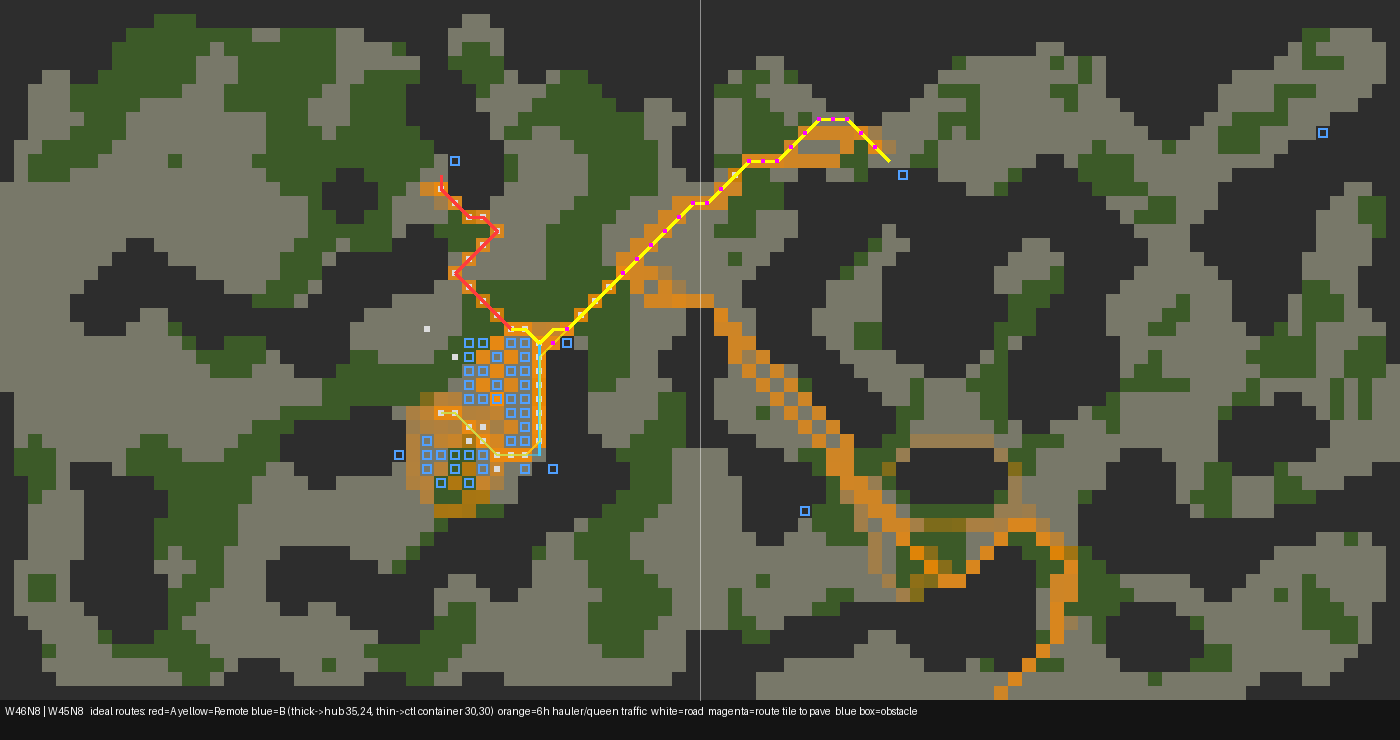
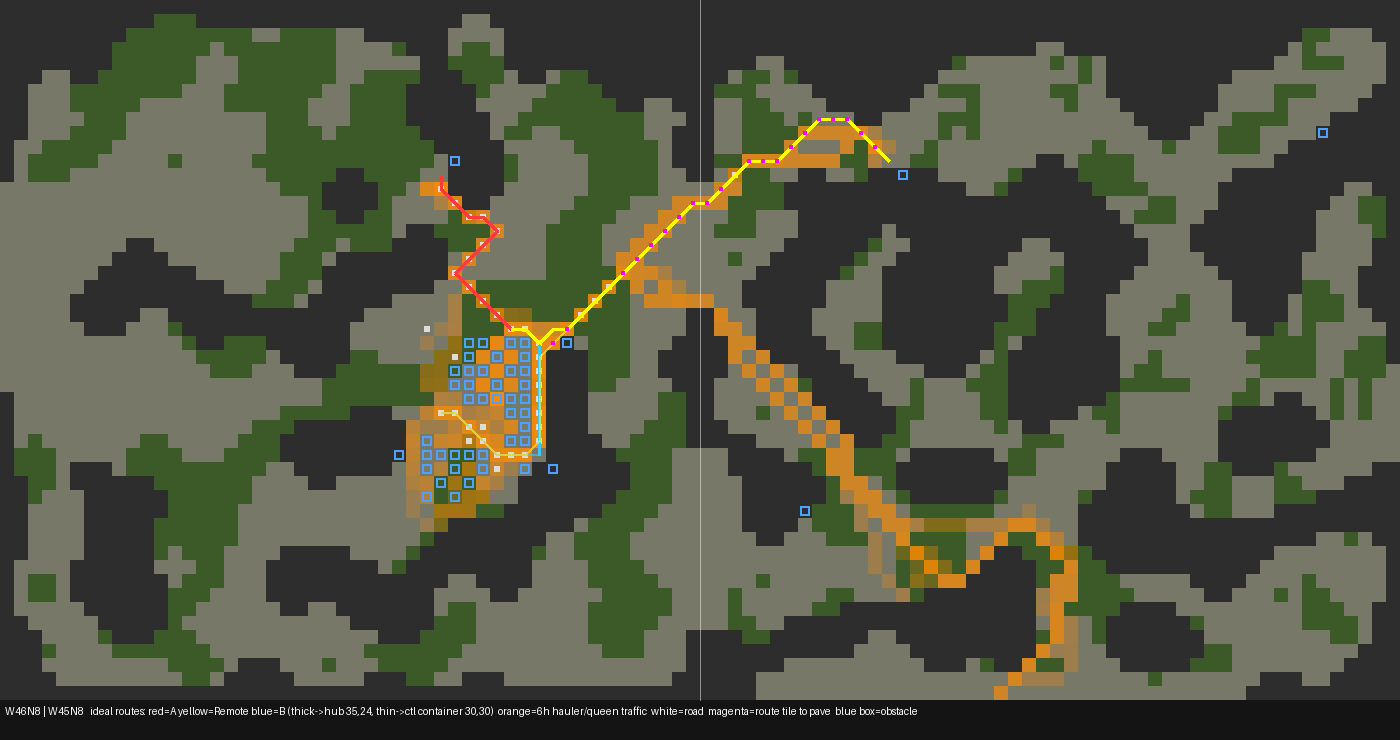
roads build hold: 0 upgraders while walls.phase 'roads' (safety upgrader if ttd<20000), no ctl feed, 3rd builder at storage>=3000, builders may use ctl leftovers; tests/build_hold.js

diff --git a/tests/build_hold.js b/tests/build_hold.js
@@ -1,0 +1,40 @@
+// Build hold (Misaki 2026-10-17 21:00 "先停止升级，全力基建"): walls.noUpgrade + spawn targets. node tests/build_hold.js
+const path = require('path'), assert = require('assert');
+const src = p => path.join(__dirname, '..', 'src', p);
+Object.assign(global, { WORK: 'work', CARRY: 'carry', MOVE: 'move', RESOURCE_ENERGY: 'energy', STRUCTURE_LINK: 'link', STRUCTURE_CONTAINER: 'container', STRUCTURE_SPAWN: 'spawn', STRUCTURE_EXTENSION: 'extension', STRUCTURE_TOWER: 'tower', FIND_HOSTILE_CREEPS: 1, _: { filter: () => [] }, Memory: {} });
+const stub = (p, exp) => { require.cache[require.resolve(src(p))] = { id: p, filename: p, loaded: true, exports: exp }; };
+let roadsDone = false;
+stub('managers/home.js', { on: () => false, alert: () => false, active: () => false });
+stub('managers/roads.js', { done: () => roadsDone, phase: () => 'core', repairTarget: () => null });
+stub('managers/threat.js', { reserve: () => 1300, holding: () => false });
+const Wl = require(src('managers/walls.js'));
+const room = (o = {}) => ({ name: 'W46N8', memory: {}, find: () => [], energyCapacityAvailable: 2000,
+  controller: { my: true, level: o.level || 6, ticksToDowngrade: o.ttd == null ? 66000 : o.ttd }, storage: { store: { energy: o.storage || 1000 } } });
+const cases = [
+  ['roads phase, timer 66k -> hold', () => assert.strictEqual(Wl.noUpgrade(room()), true)],
+  ['timer < 20000 -> no hold (safety upgrader)', () => assert.strictEqual(Wl.noUpgrade(room({ ttd: 19999 })), false)],
+  ['RCL5 / RCL8 -> no hold', () => { assert.strictEqual(Wl.noUpgrade(room({ level: 5 })), false); assert.strictEqual(Wl.noUpgrade(room({ level: 8 })), false); }],
+  ['Memory.roads.upgrade override -> no hold', () => { Memory.roads = { upgrade: 1 }; try { assert.strictEqual(Wl.noUpgrade(room()), false); } finally { Memory.roads = {}; } }],
+  ['roads done -> bank phase, no hold', () => { roadsDone = true; try { assert.strictEqual(Wl.phase(room()), 'bank'); assert.strictEqual(Wl.noUpgrade(room()), false); } finally { roadsDone = false; } }],
+];
+// spawn targets with a stubbed walls module
+let hold = true, ph = 'roads';
+stub('managers/walls.js', { noUpgrade: () => hold, phase: () => ph, wantBuilder: () => false, reserved: () => 0 });
+const P = { pos: { upgraders: [[29, 30], [30, 31], [31, 30]], controllerContainer: [30, 30], fillerContainerA: [35, 24], fillers: [], miners: [] }, raw: { stamps: {} }, any: {} };
+stub('utils/plan.js', { get: () => P, key: (x, y) => x * 50 + y });
+stub('roles/builder.js', { remoteRoadSite: () => null });
+stub('utils/move.js', { to: () => true });
+stub('utils/roomcache.js', { all: () => [], at: () => null, get: () => ({ at: [] }), sites: () => [] });
+stub('utils/trace.js', { why: () => {} });
+const S = require(src('managers/spawn.js'));
+const T = (o) => { hold = o.hold; ph = o.ph || 'roads'; return S.targets(room({ storage: o.storage }), {}, 0, 900, o.sites); };
+cases.push(
+  ['hold: 0 upgraders', () => assert.strictEqual(T({ hold: true, sites: 5, storage: 1000 }).upgrader, 0)],
+  ['no hold in roads (timer low): 1 upgrader', () => assert.strictEqual(T({ hold: false, sites: 5, storage: 1000 }).upgrader, 1)],
+  ['bank phase after roads: max 1 upgrader even with surplus', () => assert.strictEqual(T({ hold: false, ph: 'bank', sites: 0, storage: 15000 }).upgrader, 1)],
+  ['hold + storage 3000 + >=3 sites: 3 builders', () => assert.strictEqual(T({ hold: true, sites: 5, storage: 3000 }).builder, 3)],
+  ['hold + storage 2999: 2 builders', () => assert.strictEqual(T({ hold: true, sites: 5, storage: 2999 }).builder, 2)],
+  ['no hold: 2 builders max at home sites', () => assert.strictEqual(T({ hold: false, sites: 5, storage: 9000 }).builder, 2)],
+);
+let fail = 0; for (const [n, f] of cases) { try { f(); console.log('ok  ', n); } catch (e) { fail++; console.log('FAIL', n, e.message); } }
+console.log(`build hold: ${cases.length - fail}/${cases.length}`); process.exit(fail ? 1 : 0);

diff --git a/src/managers/spawn.js b/src/managers/spawn.js
@@ -62,6 +62,9 @@ function targets(room, count, backlog, ctlEnergy, sites) {
   T.upgrader = rcl >= 8 ? 1 : Math.min(P.pos.upgraders.length, (sites ? 1 : 2) + (allowExtra ? extra : 0));
   // RCL6+ wall banking (managers/walls.js): one upgrader until storage reaches the wall start (20k), then the latch releases it.
   if (rcl >= 6 && rcl < 8 && ['bank', 'roads'].includes(require('./walls').phase(room))) T.upgrader = Math.min(T.upgrader, 1);
+  // Build hold (walls.noUpgrade): 0 upgraders during the road plan; falls back to the 1 minimal (700e) upgrader above
+  // when ticksToDowngrade < walls.UP_SAFE. After roads: 'bank' keeps 1 upgrader until storage 20k (storage accumulates).
+  if (require('./walls').noUpgrade(room)) T.upgrader = 0;
   // RCL4 extension push: 2 builders need ~40 e/t but net income ~22 -> spawn/ctl starve, builders no_task ~28%,
   // haulers wait on empty pickups (patrol 10-13 18:40). One fed builder finishes sites faster than two hungry ones.
   // Second builder only after cap>=1300 (20 ext, CLAIM2-ready) when the room can afford the extra demand.
@@ -74,6 +77,8 @@ function targets(room, count, backlog, ctlEnergy, sites) {
   if (!T.builder && st && require('../roles/builder').remoteRoadSite()) T.builder = 1;
   // RCL6 road plan (docs/ROADS.md): remote road phases get a 2nd builder once storage holds a cushion; route roads < 40% get one.
   if (st && rcl >= 6) { const RD = require('./roads');
+    // build hold: the upgrader's ~6/t goes to builders; a 3rd builder once storage holds a cushion and >=3 sites are open
+    if (T.builder === 2 && sites >= 3 && require('./walls').noUpgrade(room) && room.storage.store[RESOURCE_ENERGY] >= 3000) T.builder = 3;
     if (T.builder === 1 && !sites && /^W45N/.test(RD.phase()) && room.storage.store[RESOURCE_ENERGY] >= 5000 && room.energyCapacityAvailable >= 1300) T.builder = 2;
     if (!T.builder && RD.repairTarget(0.4)) T.builder = 1; }
   return T;

diff --git a/src/roles/builder.js b/src/roles/builder.js
@@ -117,7 +117,10 @@ module.exports = { remoteRoadSite, run(c) {
       // Prefer hub stores (storage / filler A); source containers next. NEVER the controller container —
       // haulers feed ctl for upgraders; builders sipping it kept ctlEma ~150 and pinned us to 1x8W (patrol 10-13 18:40).
       const [fx, fy] = Ph.pos.fillerContainerA;
-      const all = [home.storage, rc.at(home, fx, fy, STRUCTURE_CONTAINER)].concat(require('./hauler').pickups(home))
+      // build hold (walls.noUpgrade): nobody upgrades, so the ctl container / ctl link leftovers are builder energy
+      const noUp = require('../managers/walls').noUpgrade(home), Pc = Ph.pos.controllerContainer, Pl = Ph.pos.controllerLink;
+      const ctlSrc = noUp ? [rc.at(home, Pc[0], Pc[1], STRUCTURE_CONTAINER), Pl && rc.at(home, Pl[0], Pl[1], STRUCTURE_LINK)] : [];
+      const all = [home.storage, rc.at(home, fx, fy, STRUCTURE_CONTAINER)].concat(ctlSrc, require('./hauler').pickups(home))
         .filter(s => s && s.store[RESOURCE_ENERGY] >= 50 + (s === home.storage ? require('../managers/threat').reserve(home.name) : 0)); // 50: was 100, left builders no_task while sites existed
       const tw = c.memory.t && Game.getObjectById(c.memory.t);
       let cands = all.filter(s => c.pos.getRangeTo(s) <= 12);

diff --git a/src/managers/links.js b/src/managers/links.js
@@ -15,10 +15,11 @@ function roles(room) {
 }
 const e = l => l.store[RESOURCE_ENERGY];
 function ctlLinkLow(room) { const { hub, ctl } = roles(room); return !!(hub && ctl && e(ctl) < CTL_LOW); }
-function target(R) { return (R.ctl && e(R.ctl) < CTL_LOW && R.ctl) || R.fillers.filter(l => e(l) < 400).sort((a, b) => e(a) - e(b))[0] || null; }
+function target(R, room) { const noUp = room && require('./walls').noUpgrade(room);
+  return (!noUp && R.ctl && e(R.ctl) < CTL_LOW && R.ctl) || R.fillers.filter(l => e(l) < 400).sort((a, b) => e(a) - e(b))[0] || null; }
 module.exports = { CTL_LOW, SEND, roles, ctlLinkLow, run(room) {
   if (Game.time % 3) return;
   const R = roles(room); if (R.links.length < 2) return;
-  for (const s of R.sources) { if (s.cooldown || e(s) < SEND) continue; const t = target(R) || R.hub; if (t && t !== s) s.transferEnergy(t); }
-  if (R.hub && !R.hub.cooldown && e(R.hub) >= SEND) { const t = target(R); if (t) R.hub.transferEnergy(t); }
+  for (const s of R.sources) { if (s.cooldown || e(s) < SEND) continue; const t = target(R, room) || R.hub; if (t && t !== s) s.transferEnergy(t); }
+  if (R.hub && !R.hub.cooldown && e(R.hub) >= SEND) { const t = target(R, room); if (t) R.hub.transferEnergy(t); }
 } };

diff --git a/src/roles/hauler.js b/src/roles/hauler.js
@@ -100,7 +100,8 @@ module.exports = { pickups, handoff, ctlLow, run(c) {
     if (queens && fc && fc.store[RESOURCE_ENERGY] < 400 && fc.store.getFreeCapacity(RESOURCE_ENERGY) >= 100) opts.push(fc); // queen's fixed refill
     const tw = rc.all(room, STRUCTURE_TOWER).filter(t => t.store[RESOURCE_ENERGY] < 600);
     if (!queens) opts.push(...tw);
-    const cc = rc.at(room, cx, cy, STRUCTURE_CONTAINER); if (cc && cc.store.getFreeCapacity(RESOURCE_ENERGY) >= 100) { if (cc.store[RESOURCE_ENERGY] < CTL_LOW) opts.unshift(cc); else opts.push(cc); }
+    const noUp = require('../managers/walls').noUpgrade(room) && room.storage; // build hold: feed storage, not the controller
+    const cc = !noUp && rc.at(room, cx, cy, STRUCTURE_CONTAINER); if (cc && cc.store.getFreeCapacity(RESOURCE_ENERGY) >= 100) { if (cc.store[RESOURCE_ENERGY] < CTL_LOW) opts.unshift(cc); else opts.push(cc); }
     const st = room.storage; if (st && st.store.getFreeCapacity() > 10000) opts.push(st);
     if (fc && fc.store.getFreeCapacity(RESOURCE_ENERGY) >= 200) opts.push(fc);
     // creeps that need energy: queen first (keeps the fill loop short), then builders. Pre-storage only: with storage both

diff --git a/src/roles/upgrader.js b/src/roles/upgrader.js
@@ -13,6 +13,13 @@ module.exports = { run(c) {
     const taken = new Set(_.filter(Game.creeps, x => x.memory.role === 'upgrader' && x.memory.spot).map(x => x.memory.spot.join()));
     c.memory.spot = P.pos.upgraders.find(s => !taken.has(s.join())) || P.pos.upgraders[P.pos.upgraders.length - 1];
   }
+  // build hold (walls.noUpgrade): spend what it carries, then recycle at the spawn (body energy back) instead of eating feed
+  if (require('../managers/walls').noUpgrade(room)) {
+    if (c.store[RESOURCE_ENERGY] > 0 && c.pos.inRangeTo(ctl, 3)) { c.upgradeController(ctl); return; }
+    const sp = _.filter(Game.spawns, s => s.pos.roomName === room.name)[0];
+    if (sp) { if (c.pos.isNearTo(sp)) sp.recycleCreep(c); else move.to(c, sp.pos.x, sp.pos.y, 1); }
+    return;
+  }
   const [x, y] = c.memory.spot;
   if (!move.to(c, x, y, 0)) {
     if (c.store[RESOURCE_ENERGY] > 0 && c.pos.inRangeTo(room.controller, 3)) c.upgradeController(room.controller);

diff --git a/src/managers/walls.js b/src/managers/walls.js
@@ -128,4 +128,14 @@ function placeSites(room, budget) {
   }
   return log;
 }
-module.exports = { START, NOVICE_END, phase, planned, STEPS, target, barriers, fund, spend, reserved, repairJob, wantBuilder, placeSites, lists };
+// Misaki 2026-10-17 21:00 "先停止升级，全力基建": while the road plan runs (phase 'roads') spawn NO upgrader and send no
+// energy to the controller. Safety: ticksToDowngrade < UP_SAFE -> 1 minimal upgrader again. Memory.roads.upgrade=1 overrides.
+const UP_SAFE = 20000;
+function noUpgrade(room) {
+  const c = room && room.controller;
+  if (!c || !c.my || c.level < 6 || c.level >= 8) return false;
+  if ((Memory.roads || {}).upgrade) return false;
+  if ((c.ticksToDowngrade || 0) < UP_SAFE) return false;
+  return phase(room) === 'roads';
+}
+module.exports = { UP_SAFE, noUpgrade, START, NOVICE_END, phase, planned, STEPS, target, barriers, fund, spend, reserved, repairJob, wantBuilder, placeSites, lists };

diff --git a/scripts/check.js b/scripts/check.js
@@ -28,6 +28,7 @@ execSync('node ' + path.join(__dirname, '..', 'tests', 'queen_standby.js'), { st
 execSync('node ' + path.join(__dirname, '..', 'tests', 'hauler_fill_sticky.js'), { stdio: 'pipe' });
 execSync('node ' + path.join(__dirname, '..', 'tests', 'salvage.js'), { stdio: 'pipe' });
 execSync('node ' + path.join(__dirname, '..', 'tests', 'roads_plan.js'), { stdio: 'pipe' });
+execSync('node ' + path.join(__dirname, '..', 'tests', 'build_hold.js'), { stdio: 'pipe' });
 execSync('node ' + path.join(__dirname, '..', 'tests', 'roads_transition.js'), { stdio: 'pipe' });
 execSync('node ' + path.join(__dirname, '..', 'tests', 'spawn_upgraders.js'), { stdio: 'pipe' });
 execSync('node ' + path.join(__dirname, '..', 'tests', 'walls_bank.js'), { stdio: 'pipe' });

diff --git a/tests/defender_energy_hold.js b/tests/defender_energy_hold.js
@@ -35,7 +35,7 @@ stub('managers/threat.js', {
 });
 stub('managers/home.js', { on: () => false, active: () => false, wantGuards: () => 0 });
 stub('managers/remote.js', { CFG: {}, paused: () => false, mem: () => ({}) });
-stub('managers/walls.js', { phase: () => 'off', reserved: () => 0 });
+stub('managers/walls.js', { phase: () => 'off', noUpgrade: () => false, reserved: () => 0 });
 stub('roles/hauler.js', { pickups: () => [], ctlLow: () => false, handoff: () => false });
 stub('roles/queen.js', { storageFloor: () => 1300, fillRoute: () => false });
 

diff --git a/src/roles/queen.js b/src/roles/queen.js
@@ -63,6 +63,7 @@ function storageFloor(room) {
 // walking to the controller container; links.js forwards hub -> controller link.
 function standby(c, room, P) {
   const H = require('./hauler'), Lk = require('../managers/links');
+  if (require('../managers/walls').noUpgrade(room)) return false; // build hold: no storage -> controller ferry
   const hub = Lk.ctlLinkLow(room) && Lk.roles(room).hub;
   const toHub = hub && hub.store.getFreeCapacity(RESOURCE_ENERGY) > 0;
   if (!toHub && !H.ctlLow(room, P)) return false;

diff --git a/docs/ROADS.md b/docs/ROADS.md
@@ -54,3 +54,14 @@ energy not starved (storage >= 1300) · errors 0 · CPU · walls.phase === 'road
 - Added tests/roads_transition.js (RCL5->6 sim: gate, init, core->home->W45N8->done, batch, no vision, paused, off, RCL drop).
 - Residual: home trunk tile 40,23 is under the RCL8 tower plan (road must be removed before that tower, RCL8 only).
 - Changed (patrol 10-17 19:40): in walls.phase 'roads' the held upgrader is spawned 6W1C1M (700e, ~6/t) instead of 12W (spawn.bodyEnergy buildMode), so builders get the spare ~6/t. Measured before: upgrade 13.9/t, build 5.9/t, storage -4.2/t. Full size returns automatically when roads are done.
+
+## Build hold — no upgrading during the road plan (Misaki 2026-10-17 21:00 "先停止升级，全力基建")
+- `walls.noUpgrade(room)`: true while RCL6–7, `walls.phase === 'roads'` (core → home → W45N8), `ticksToDowngrade >= 20000`
+  (`walls.UP_SAFE`) and `Memory.roads.upgrade` not set. Console override `Memory.roads.upgrade = 1` restores the 1×700e upgrader.
+- While true: spawn target upgrader 0; the live upgrader spends what it carries, then recycles at the spawn; haulers skip the
+  controller container (feed storage); queen does not ferry storage → controller/hub link; links do not send to the controller
+  link; builders may draw from the controller container / link leftovers.
+- Safety: timer < 20000 → hold off automatically → the 1 minimal (700e 6W1C1M) upgrader spawns until the timer is back up.
+- Builders: 2 normally (sites > 3); a 3rd while the hold is on, ≥ 3 sites open and storage ≥ 3000.
+- After `Memory.roads.phase === 'done'`: walls phase `bank` → 1 upgrader at normal size until storage reaches 20k
+  (walls start), so storage accumulates; then normal supply-follows-demand upgraders. Tests: `tests/build_hold.js`.

diff --git a/docs/RCL6.md b/docs/RCL6.md
@@ -48,3 +48,6 @@ the code does on the level-up night matters more than another model pass; the RC
 Walls are now LOW priority. After the core build the road plan runs first (docs/ROADS.md: home trunks → W45N8 → done; W45N7 road dropped 17:47);
 `walls.phase()` returns `'roads'` until `Memory.roads.phase === 'done'`, so the R4 banking rule ("one upgrader until storage 20k") and
 barrier sites start only after the roads. Emergency wall starts are unchanged. Watchpoint 5 above now applies after the road plan.
+
+**Build hold (2026-10-17 21:00):** during the road plan no upgrader at all (`walls.noUpgrade`, docs/ROADS.md), safety upgrader
+if `ticksToDowngrade < 20000`. After roads the R4 banking rule (1 upgrader until storage 20k) applies unchanged.
